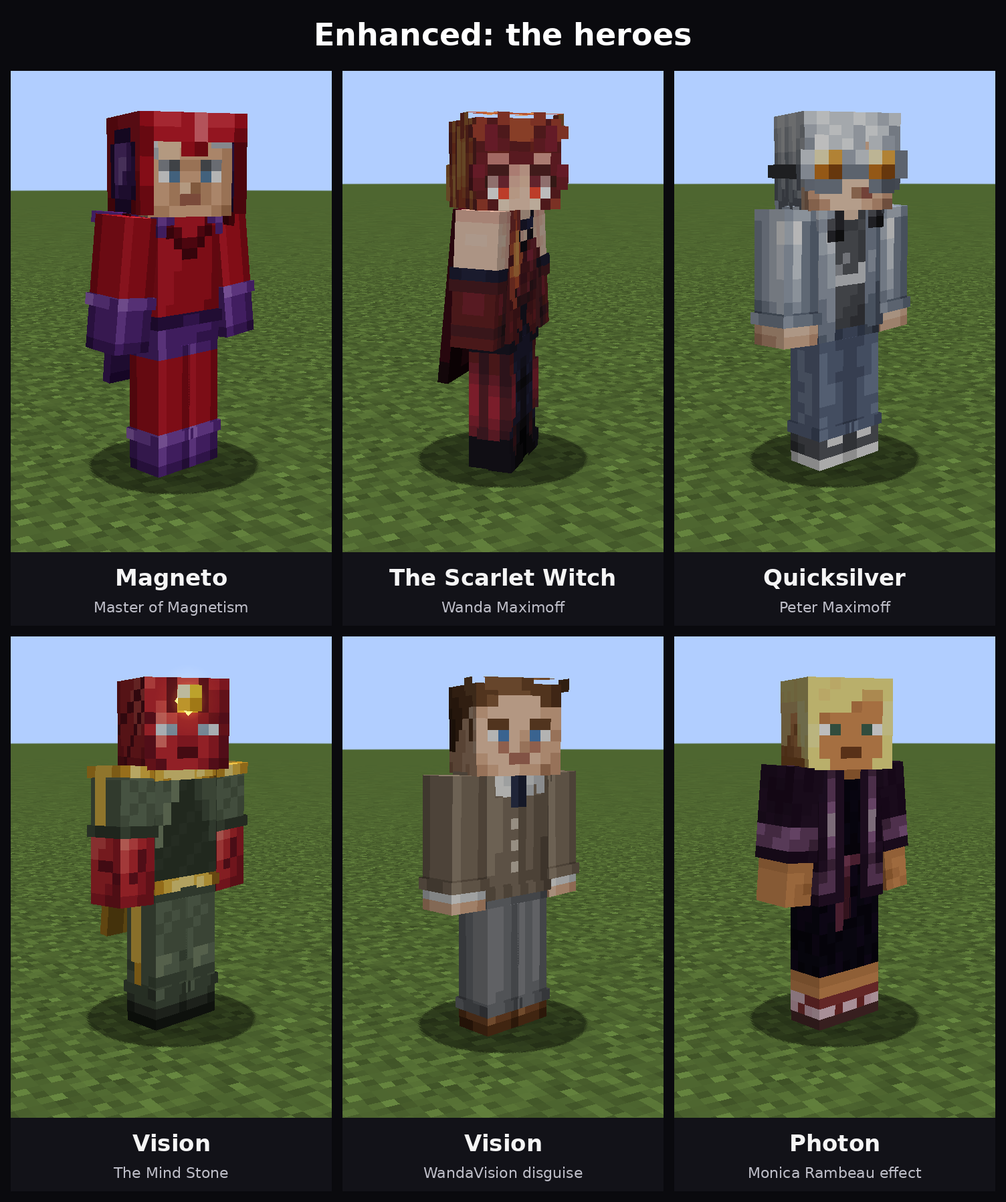
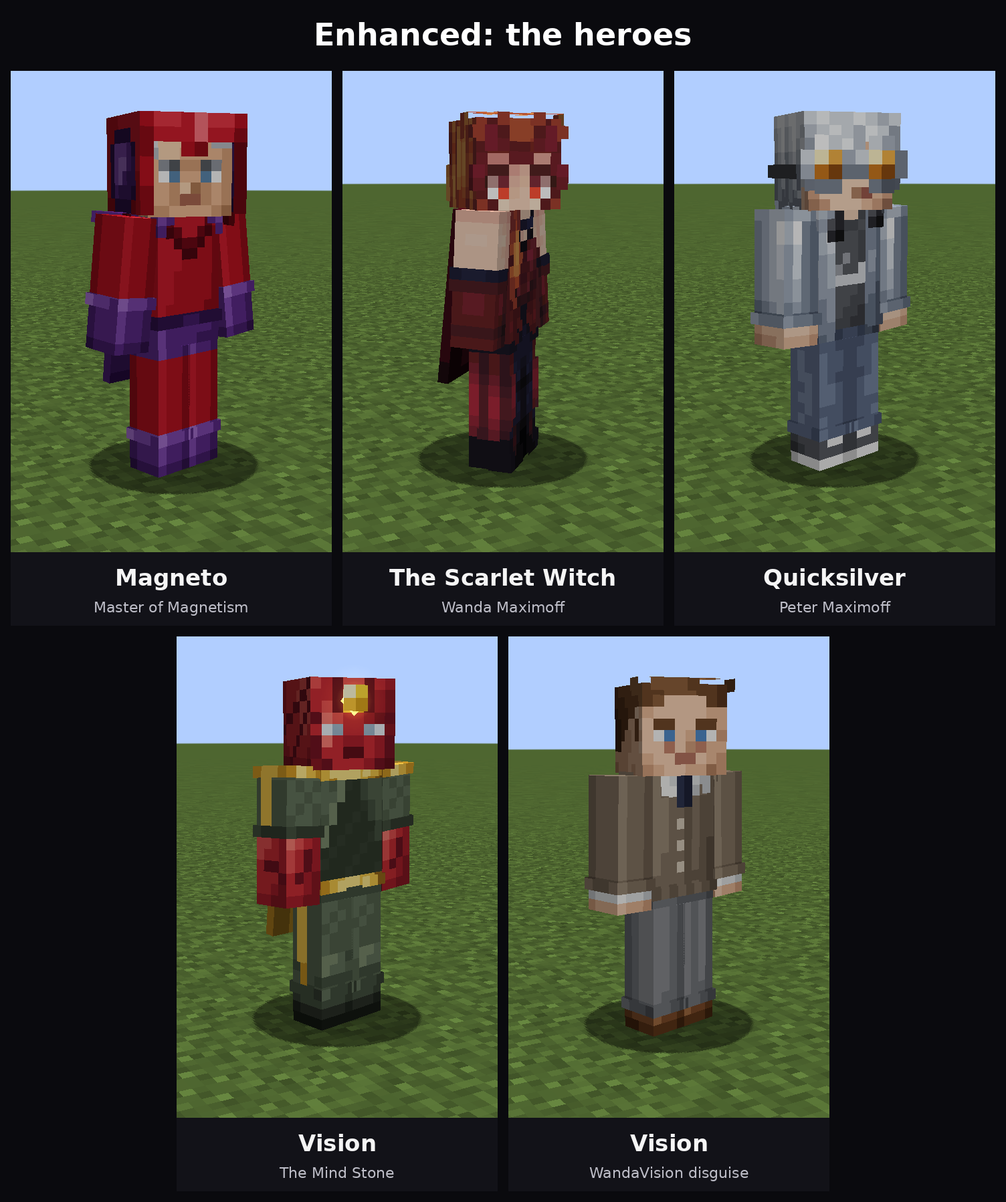
Docs: take Photon out of the README and the design docs
The overview, the one-power rule, the Hex survival rule, the MCU colours,
the commands and the controls no longer mention Photon, section 3 is gone
(the other sections keep their numbers), and her screenshots are removed.

Claude-Session: https://claude.ai/code/session_01JvnzpYhRHmSPGjDVaUfbSu

Changed region(s): [[0.0, 0.5295, 1.0, 0.9967], [0.875, 0.9655, 0.9062, 0.9967], [0.5312, 0.9655, 0.5625, 0.9967]]

diff --git a/docs/DESIGN.he.md b/docs/DESIGN.he.md
@@ -7,7 +7,6 @@
 
 * **מגנטו**, אדון המגנטיות
 * **וונדה מקסימוף, מכשפת השני**
-* **פוטון (מוניקה רמבו)**, השורדת הנדירה של ההקס של וונדה
 * **קוויקסילבר (פיטר מקסימוף)**, האדם המהיר ביותר בעולם
 * **ויז'ן**, הסינתזואיד עם אבן התודעה במצח, ו**ויז'ן הלבן** **(נוסף)**
 * **טומי מקסימוף (ספיד)**, הבן הספידסטר של וונדה **(נוסף)**
@@ -26,7 +25,7 @@
 
 | חוק | פירוט |
 |---|---|
-| כוח אחד לכל שחקן | לכל שחקן יש בדיוק אחד מאלה: *כלום*, מגנטו, מכשפת השני, פוטון, קוויקסילבר, ויז'ן, טומי, בילי, לוקי, ת'ור. אי אפשר לשלב כוחות. |
+| כוח אחד לכל שחקן | לכל שחקן יש בדיוק אחד מאלה: *כלום*, מגנטו, מכשפת השני, קוויקסילבר, ויז'ן, טומי, בילי, לוקי, ת'ור. אי אפשר לשלב כוחות. |
 | לתמיד | ברגע שפתחת כוח, הוא נשאר איתך גם אחרי שמתים, יוצאים מהמשחק או עוברים מימד. רק פקודת אופרטור יכולה להוריד אותו (`/enhanced power set <player> none`). |
 | מקשי היכולות **(נוסף)** | יכולות 1–5 מחוברות כברירת מחדל למקשים **R, G, V, B, N** (אפשר לשנות ב-*Options → Controls → Enhanced Powers*). כל מקש מפעיל את היכולת עם אותו מספר ברשימה של הגיבור. |
 | תעופה | התעופה עובדת כמו בקריאייטיב: לוחצים פעמיים מהר על **Space** (מקש הרווח), או לוחצים על מקש התעופה של הגיבור. קוויקסילבר לא עף, הוא רץ. |
@@ -274,30 +273,13 @@
   מוונדה:
   * **95%:** מוות מיידי ("was rewritten by the Hex" — "נכתב מחדש על ידי ההקס").
     שריון, טוטם האלמוות ואפקטים לא עוזרים.
-  * **5%, אפקט מוניקה רמבו:** הוא שורד. לשחקן ששורד **ה-DNA נכתב מחדש**, והוא הופך
-    לתמיד ל**פוטון** (ראו סעיף 3). מפלצת ששורדת פשוט עוברת.
+  * **5%:** הוא שורד ופשוט עובר את הקיר.
 * **גם טלפורט נחשב מעבר:** אנדר פרלים, פרי קורוס ואנדרמנים שמטלפרטים דרך הקיר
   מקבלים את אותה הגרלה של 95% / 5%.
-* **(נוסף)** מי ש**יש לו כוחות** (מגנטו, פוטון, קוויקסילבר, ויז'ן, מכשפת שני אחרת)
+* **(נוסף)** מי ש**יש לו כוחות** (מגנטו, קוויקסילבר, ויז'ן, מכשפת שני אחרת)
   ובוסים לא יכולים למות מהקיר. הם נזרקים אחורה כאילו נתקעו בזכוכית, אלא אם וונדה
   נתנה להם להיכנס.
 * **(נוסף)** חיות מחמד של שחקן שמותר לו להיכנס עוברות בלי שום בעיה.
-
----
-
-## 3. פוטון — אפקט מוניקה רמבו **(נוסף)**
-
-ברעיון המקורי כתוב שמי ששורד את קיר ההקס (ה-5%) "פותח לתמיד יכולות חזקות של
-גיבור-על שמבוססות על אנרגיה." הסעיף הזה מגדיר מה הן, לפי מוניקה רמבו אחרי שהיא
-עברה דרך ההקס.
-
-| # | מקש | יכולת | איך זה עובד |
-|---|---|---|---|
-| 1 | R | **פיצוץ פוטון** (Photon Blast) | יורים קרן של אור טהור (6 נזק). אם יש לך אנרגיה שמורה, הירייה מקבלת חיזוק (+6 נזק, עולה 10 אנרגיה). קולדאון 0.6 שניות. |
-| 2 | G (הדלקה/כיבוי) | **תעופת פוטון** (Photon Flight) | תעופה בסרוייבל במהירות 0.085, עם שובל של אור. |
-| 3 | V | **ספיגת אנרגיה** (Energy Absorption) | **פסיבי:** סופג **50% מכל נזק של אנרגיה** (אש, לבה, ברק, פיצוצים, קסם, קרן אנרגיית הכאוס, פוטונים אחרים) ושומר אותו (מקסימום 100). **לוחצים V:** משחררים את האנרגיה השמורה כגל הדף שפוגע ודוחף אחורה את כל מה שנמצא בטווח 6 בלוקים (צריך לפחות 10 אנרגיה). |
-| 4 | B | **מעבר פאזה** (Phase Shift) | אתה הופך לבלתי מוחשי ל-3 שניות. אתה לא סופג נזק וקליעים עוברים דרכך, אבל אתה לא יכול לתקוף (בלי מכות, בלי פיצוץ פוטון ובלי שחרור אנרגיה). נצנוץ של אנרגיה לבנה מכסה לך את הגוף. קולדאון 12 שניות. |
-| 5 | N (הדלקה/כיבוי) | **ראיית ספקטרום** (Spectrum Vision) | רואים בחושך ורואים כל יצור בטווח 48 בלוקים דרך קירות. העיניים שלך זוהרות. |
 
 ---
 
@@ -460,7 +442,7 @@
 
 | # | מקש | יכולת | איך זה עובד |
 |---|---|---|---|
-| 1 | R | **ברק כישוף** | קשת כחולה מפצפצת מהיד שלו אל היצור הראשון שהוא מסתכל עליו עד 24 בלוקים: 6 נזק, והיא מסתעפת הלאה לשני היצורים הקרובים ביותר עד 5 בלוקים ממנו (3 נזק לכל אחד). כל מי שבסביבה רואה את הברקים. פוטון יכולה לספוג אותו. קולדאון חצי שנייה. |
+| 1 | R | **ברק כישוף** | קשת כחולה מפצפצת מהיד שלו אל היצור הראשון שהוא מסתכל עליו עד 24 בלוקים: 6 נזק, והיא מסתעפת הלאה לשני היצורים הקרובים ביותר עד 5 בלוקים ממנו (3 נזק לכל אחד). כל מי שבסביבה רואה את הברקים. קולדאון חצי שנייה. |
 | 2 | G (הדלקה/כיבוי) | **תעופה** | תעופה רגועה וחסרת משקל עם ידיים פתוחות, כמו של אמא שלו (מהירות 0.08). |
 | 3 | V | **טלקינזיס** | הטלקינזיס של וונדה, בכחול שלו: יצורים, חפצים על הרצפה, עגלות, סירות, TNT דולק, בלוקים נופלים, **וקליעים באוויר**: חץ שהוא תופס נשאר תלוי לפניו, מכוון לאן שהוא מסתכל, ועף כשהוא מורה לו. הוא לא תולש בלוקים מהאדמה (זה של וונדה). לוחצים שוב כדי להעיף, **התכופפות** + המקש כדי להניח בעדינות. |
 | 4 | B | **הקפאה** | כל יצור ושחקן עד 12 בלוקים בקונוס של 90° מולו, בקו הראייה שלו, **כבול בכישוף** ל-5 שניות: הוא לא יכול לזוז, לקפוץ או לתקוף, לא יכול לבחור מטרה חדשה, וניצוצות כחולים מסתובבים סביב הראש שלו. הדרקון והוות'ר חזקים מדי בשביל זה. קולדאון 12 שניות. |
@@ -568,7 +550,6 @@
 | ההקס | מבחוץ, קיר שקוף של לבנים "קתודיות" זוהרות בצבע פטל וקווי סריקה | לבנים וקווי סריקה של טלוויזיה ישנה בצבע פטל, שצובעים את השמיים |
 | מגנטו | בסרטי האקס-מן אין שום זוהר: המתכת פשוט זזה | קווי שדה חסרי צבע, חלקיקים בצבע ברזל אפור |
 | קוויקסילבר | קוויקסילבר של פוקס: בלי זוהר צבעוני | טשטוש אפור ובבואות |
-| פוטון | אור כחול-לבן; זהב כשהיא בלתי מוחשית; עיניים בתכלת | יריות כחולות-לבנות, נצנוץ זהב בפאזה, עיניים בתכלת בראיית ספקטרום |
 | ויז'ן | קרן אבן התודעה בזהב חיוור; הילה ירקרקה-צהובה בפאזה | קרן בזהב חיוור ואבן ענבר; הילה ירקרקה-צהובה בפאזה |
 | ויז'ן הלבן | קרן בתכלת-לבן; בלי אבן התודעה | קרן תכלת-לבנה; שקע משושה ריק של מעגלים בצבע נחושת; הילה לבנה בפאזה |
 | טומי | שובל רוחות רפאים ירוק-טורקיז | שובל, רוחות רפאים וערפל בירוק-טורקיז |
@@ -583,7 +564,7 @@
 | פקודה | מה היא עושה |
 |---|---|
 | `/enhanced power get [player]` | מראה איזה כוח יש לשחקן. |
-| `/enhanced power set <players> <none\|magneto\|scarlet_witch\|photon\|quicksilver\|vision\|tommy\|billy\|loki\|thor> [look]` | נותנת כוח או מורידה אותו, ואפשר ישר לאחד המראות שלו. |
+| `/enhanced power set <players> <none\|magneto\|scarlet_witch\|quicksilver\|vision\|tommy\|billy\|loki\|thor> [look]` | נותנת כוח או מורידה אותו, ואפשר ישר לאחד המראות שלו. |
 | `/enhanced look <players> <look>` | משנה את המראה של כל שחקן שלגיבור שלו יש את המראה הזה (למשל `sylvie`, `white_vision`, `mighty_thor`). |
 | `/enhanced hex list` | מציגה את כל ההקסים במימד הנוכחי. |
 | `/enhanced hex clear` | מפרקת את כל ההקסים במימד הנוכחי. |

diff --git a/docs/DESIGN.md b/docs/DESIGN.md
@@ -5,7 +5,6 @@ one of the *Enhanced*:
 
 * **Magneto**, the Master of Magnetism
 * **Wanda Maximoff, the Scarlet Witch**
-* **Photon (Monica Rambeau)**, the rare survivor of Wanda's Hex
 * **Quicksilver (Peter Maximoff)**, the fastest man alive
 * **Vision**, the synthezoid with the Mind Stone in his forehead, and **White Vision** **(added)**
 * **Tommy Maximoff (Speed)**, Wanda's speedster son **(added)**
@@ -25,7 +24,7 @@ gap is filled in here, and every addition is marked **(added)**.
 
 | Rule | Detail |
 |---|---|
-| One power per player | A player has exactly one of: *none*, Magneto, Scarlet Witch, Photon, Quicksilver, Vision, Tommy, Billy, Loki, Thor. Powers never stack. |
+| One power per player | A player has exactly one of: *none*, Magneto, Scarlet Witch, Quicksilver, Vision, Tommy, Billy, Loki, Thor. Powers never stack. |
 | Permanent | Once unlocked, a power survives death, logging out and changing dimension. Only an operator command can remove it (`/enhanced power set <player> none`). |
 | Ability keys **(added)** | Ability 1–5 are bound to **R, G, V, B, N** by default (rebind under *Options → Controls → Enhanced Powers*). Each key triggers the ability with the same number in that hero's list. |
 | Flight | Flying works like Creative mode: double-tap **Space**, or press the hero's flight key. Quicksilver doesn't fly, he runs. |
@@ -276,31 +275,13 @@ To touch the stone, hold the scepter and **right-click** (use it):
   crosses the wall without Wanda's permission:
   * **95%:** instant death ("was rewritten by the Hex"). Armor, Totems of Undying and
     effects don't help.
-  * **5%, the Monica Rambeau effect:** they survive. A player who survives has their
-    **DNA rewritten** and permanently becomes **Photon** (see section 3). A surviving
-    mob simply makes it through.
+  * **5%:** they survive and simply make it through.
 * **Crossing includes teleporting:** Ender Pearls, Chorus Fruit and Endermen
   teleporting across the wall face the same 95% / 5% roll.
-* **(added)** Anyone **with powers** (Magneto, Photon, Quicksilver, Vision, another Scarlet Witch) and
+* **(added)** Anyone **with powers** (Magneto, Quicksilver, Vision, another Scarlet Witch) and
   bosses can't be killed by the wall. They're thrown back as if they hit glass, unless
   Wanda allowed them in.
 * **(added)** Pets owned by an allowed player pass through safely.
-
----
-
-## 3. Photon — the Monica Rambeau effect **(added)**
-
-The concept says a 5% survivor of the Hex wall "permanently unlocks strong
-energy-based superhero abilities." This section defines them, based on
-Monica Rambeau after she crossed the Hex.
-
-| # | Key | Ability | How it works |
-|---|---|---|---|
-| 1 | R | **Photon Blast** | Fire a bolt of pure light (6 damage). If you have stored energy, the bolt is supercharged (+6 damage, costs 10 energy). Cooldown 0.6 s. |
-| 2 | G (toggle) | **Photon Flight** | Survival flight at 0.085 with a trail of light. |
-| 3 | V | **Energy Absorption** | **Passive:** absorbs **50% of all energy damage** (fire, lava, lightning, explosions, magic, the Chaos Beam, other Photons) and stores it (max 100). **Press V:** release the stored energy as a shockwave that damages and knocks back everything within 6 blocks (needs at least 10 energy). |
-| 4 | B | **Phase Shift** | Become intangible for 3 seconds. You take no damage and projectiles pass through you, but you can't attack (no melee, no Photon Blast, no Energy Release). A white energy shimmer covers your body. Cooldown 12 s. |
-| 5 | N (toggle) | **Spectrum Vision** | See in the dark and see every creature within 48 blocks through walls. Your eyes glow. |
 
 ---
 
@@ -464,7 +445,7 @@ Billy's magic is blue with a white-hot core, crackling and branching like a Tesl
 
 | # | Key | Ability | How it works |
 |---|---|---|---|
-| 1 | R | **Hex Bolt** | A crackling blue arc from his hand to the first creature he looks at within 24 blocks: 6 damage, and it forks on to the two nearest creatures within 5 blocks of it (3 damage each). Everyone around sees the bolts. Photon can absorb it. Cooldown half a second. |
+| 1 | R | **Hex Bolt** | A crackling blue arc from his hand to the first creature he looks at within 24 blocks: 6 damage, and it forks on to the two nearest creatures within 5 blocks of it (3 damage each). Everyone around sees the bolts. Cooldown half a second. |
 | 2 | G (toggle) | **Flight** | Calm, weightless flight with open hands, like his mother's (speed 0.08). |
 | 3 | V | **Telekinesis** | Wanda's telekinesis, in his blue: creatures, dropped items, minecarts, boats, primed TNT, falling blocks, **and projectiles in flight**: an arrow he catches hangs in front of him, pointing where he looks, and flies off at his command. He doesn't tear blocks out of the ground (that is Wanda's). Press again to launch, **Sneak** + the key to put down gently. |
 | 4 | B | **Freeze** | Every creature and player within 12 blocks in a 90° cone in front of him, in his line of sight, is **spellbound** for 5 seconds: they can't move, jump or attack, can't pick a new target, and blue sparks circle their heads. The Ender Dragon and the Wither are too strong for it. Cooldown 12 seconds. |
@@ -584,7 +565,6 @@ Every power's light follows the films and shows:
 | The Hex | From outside, a translucent wall of glowing raspberry-red "cathodic" bricks and scanlines | Raspberry-red CRT bricks and scanlines that tint the sky |
 | Magneto | No glow at all in the X-Men films: metal just moves | Colourless field lines, iron-grey particles |
 | Quicksilver | Fox Quicksilver: no coloured glow | A grey blur and afterimages |
-| Photon | Blue-white light; gold while intangible; azure eyes | Blue-white blasts, a gold phasing shimmer, azure Spectrum Vision eyes |
 | Vision | Pale gold Mind Stone beam; a greenish-yellow aura while phasing | Pale gold beam and amber stone; greenish-yellow phasing aura |
 | White Vision | A pale cyan-white beam; no Mind Stone | Cyan-white beam; an empty hexagonal socket of copper circuitry; a white phasing aura |
 | Tommy | A teal-green ghost trail | Teal-green trail, ghosts and mist |
@@ -599,7 +579,7 @@ Every power's light follows the films and shows:
 | Command | Effect |
 |---|---|
 | `/enhanced power get [player]` | Show a player's power. |
-| `/enhanced power set <players> <none\|magneto\|scarlet_witch\|photon\|quicksilver\|vision\|tommy\|billy\|loki\|thor> [look]` | Give or remove a power, optionally straight into one of its looks. |
+| `/enhanced power set <players> <none\|magneto\|scarlet_witch\|quicksilver\|vision\|tommy\|billy\|loki\|thor> [look]` | Give or remove a power, optionally straight into one of its looks. |
 | `/enhanced look <players> <look>` | Change the look of every given player whose hero has that look (e.g. `sylvie`, `white_vision`, `mighty_thor`). |
 | `/enhanced hex list` | List all Hexes in the current dimension. |
 | `/enhanced hex clear` | Dissolve every Hex in the current dimension. |

diff --git a/README.md b/README.md
@@ -6,7 +6,6 @@ A Minecraft mod where you can become one of the *Enhanced*:
 **Vision**, the Mind Stone in a synthetic body (or **White Vision**);
 Wanda's sons **Tommy (Speed)** and **Billy (Wiccan)**; **Loki** and his variants, **Sylvie** among them;
 or, if you are worthy, **Thor**, with **Mjolnir** and **Stormbreaker**.
-And if you're lucky enough to survive Wanda's Hex wall, **Photon**.
 
 Every power's look and colour follows the MCU films and shows, and Vision, Tommy, Billy, Loki
 and Thor each have several looks (press **H**).
@@ -37,7 +36,6 @@ on the [Releases](../../releases) page. The newest build is always marked *Lates
 |---|---|
 | **Magneto** | Craft **Magneto's Helmet** from 5 Netherite Blocks (helmet shape) and put it on. |
 | **Scarlet Witch** | Find the very rare **Scarlet Witch Gene** (mansions, strongholds, fortresses, bastions, ancient and End cities, jungle temples, desert pyramids, witches, evokers). Hold it in one hand and use **Loki's Scepter** (End City treasure and other rare chests) with the other to touch the Mind Stone. **Without the gene, you explode.** |
-| **Photon** | Cross a Scarlet Witch's Hex wall without her permission and survive the 5% chance. |
 | **Quicksilver** | Craft **Quicksilver's Goggles** (sugar, iron, glass panes, a Block of Diamond) and put them on. |
 | **Vision** | Craft a **Synthezoid Core** (redstone blocks, netherite ingots, a Nether Star). Hold it in one hand and use **Loki's Scepter** with the other. |
 | **Tommy** or **Billy** | Craft the **Witches' Road Door** (amethyst shards, soul lanterns, dark oak trapdoors, an Eye of Ender) and place it in the floor. Open it holding a **Scarlet Witch Gene** and choose which of Wanda's sons you become. |
@@ -52,13 +50,13 @@ look. In Thor's hands either weapon is thrown, called back, flown with and struc
 
 ## Controls
 
-| Key | Magneto | Scarlet Witch | Photon | Quicksilver | Vision |
-|---|---|---|---|---|---|
-| **R** | Metal Telekinesis | Chaos Energy Beam (hold) | Photon Blast | Quicksilver Time on/off | Mind Stone Beam (hold) |
-| **G** | Iron Shrapnel Storm (hold) | Enhanced Flight | Photon Flight | Speed Blitz | Flight |
-| **V** | Armor & Weapon Strip | Telekinesis (creatures, items, blocks) | Energy Release | Pickpocket | Phase through walls (toggle) |
-| **B** | Magnetic Shield (toggle) | Chaos Shield (hold) | Phase Shift | Wall & Water Run (toggle) | Density (toggle) |
-| **N** | Magnetic Flight | The Hex (again: Hex Control, Sneak: dissolve) | Spectrum Vision (toggle) | Walkman: music on/off | Human disguise (toggle) |
+| Key | Magneto | Scarlet Witch | Quicksilver | Vision |
+|---|---|---|---|---|
+| **R** | Metal Telekinesis | Chaos Energy Beam (hold) | Quicksilver Time on/off | Mind Stone Beam (hold) |
+| **G** | Iron Shrapnel Storm (hold) | Enhanced Flight | Speed Blitz | Flight |
+| **V** | Armor & Weapon Strip | Telekinesis (creatures, items, blocks) | Pickpocket | Phase through walls (toggle) |
+| **B** | Magnetic Shield (toggle) | Chaos Shield (hold) | Wall & Water Run (toggle) | Density (toggle) |
+| **N** | Magnetic Flight | The Hex (again: Hex Control, Sneak: dissolve) | Walkman: music on/off | Human disguise (toggle) |
 
 | Key | Tommy | Billy | Loki | Thor |
 |---|---|---|---|---|
@@ -87,10 +85,9 @@ shows your abilities, cooldowns and resources.
 | ![Lifting an Iron Golem](docs/screenshots/magneto-telekinesis.png) Magneto lifting an Iron Golem | ![Disarm](docs/screenshots/magneto-disarm.png) Ripping a zombie's iron gear off |
 | ![Chaos Beam](docs/screenshots/chaos-beam.png) The Chaos Beam | ![Chaos Shield](docs/screenshots/chaos-shield.png) The Chaos Shield |
 | ![Awakening](docs/screenshots/mind-stone-awakening.png) Touching the Mind Stone with the gene | ![Hex Control](docs/screenshots/hex-control.png) Wanda's Hex Control screen |
-| ![Flight](docs/screenshots/scarlet-witch-flight.png) Red energy around Wanda's hands in flight | ![Photon](docs/screenshots/photon.png) Photon phasing, with Spectrum Vision on |
-| ![Quicksilver Time](docs/screenshots/quicksilver-time.png) Quicksilver Time: sand and arrows hang in the air | ![Running past](docs/screenshots/quicksilver-run.png) Quicksilver running past, as another player sees him |
-| ![Mind Stone beam](docs/screenshots/mind-stone-beam.png) Vision's Mind Stone beam | ![Phasing](docs/screenshots/vision-phase.png) Vision phasing through a wall |
-| ![Disguise](docs/screenshots/vision-disguise.png) Vision and his WandaVision human disguise | |
+| ![Flight](docs/screenshots/scarlet-witch-flight.png) Red energy around Wanda's hands in flight | ![Quicksilver Time](docs/screenshots/quicksilver-time.png) Quicksilver Time: sand and arrows hang in the air |
+| ![Running past](docs/screenshots/quicksilver-run.png) Quicksilver running past, as another player sees him | ![Mind Stone beam](docs/screenshots/mind-stone-beam.png) Vision's Mind Stone beam |
+| ![Phasing](docs/screenshots/vision-phase.png) Vision phasing through a wall | ![Disguise](docs/screenshots/vision-disguise.png) Vision and his WandaVision human disguise |
 
 ## Quicksilver's song
 
@@ -129,11 +126,11 @@ To install, copy `build/libs/enhanced-<version>.jar` into the `mods` folder of a
 
 ## For server owners
 
-* `/enhanced power get|set …` (`none`, `magneto`, `scarlet_witch`, `photon`, `quicksilver`,
+* `/enhanced power get|set …` (`none`, `magneto`, `scarlet_witch`, `quicksilver`,
   `vision`, `tommy`, `billy`, `loki`, `thor`, optionally followed by a look), `/enhanced look <players> <look>`
   and `/enhanced hex list|clear` (operators only).
 * Balance numbers (beam damage, Hex death chance and radius, flight speeds, shrapnel, how much
   Quicksilver Time slows the world…) are in `world/serverconfig/enhanced-server.toml`.
 * Item, block, entity and damage tags under `data/enhanced/tags/` decide what counts as
-  metal, what can be lifted, what the shield repels, which bosses resist the Hex and
-  which damage Photon absorbs, so datapacks can change them.
+  metal, what can be lifted, what the shield repels and which bosses resist the Hex,
+  so datapacks can change them.
